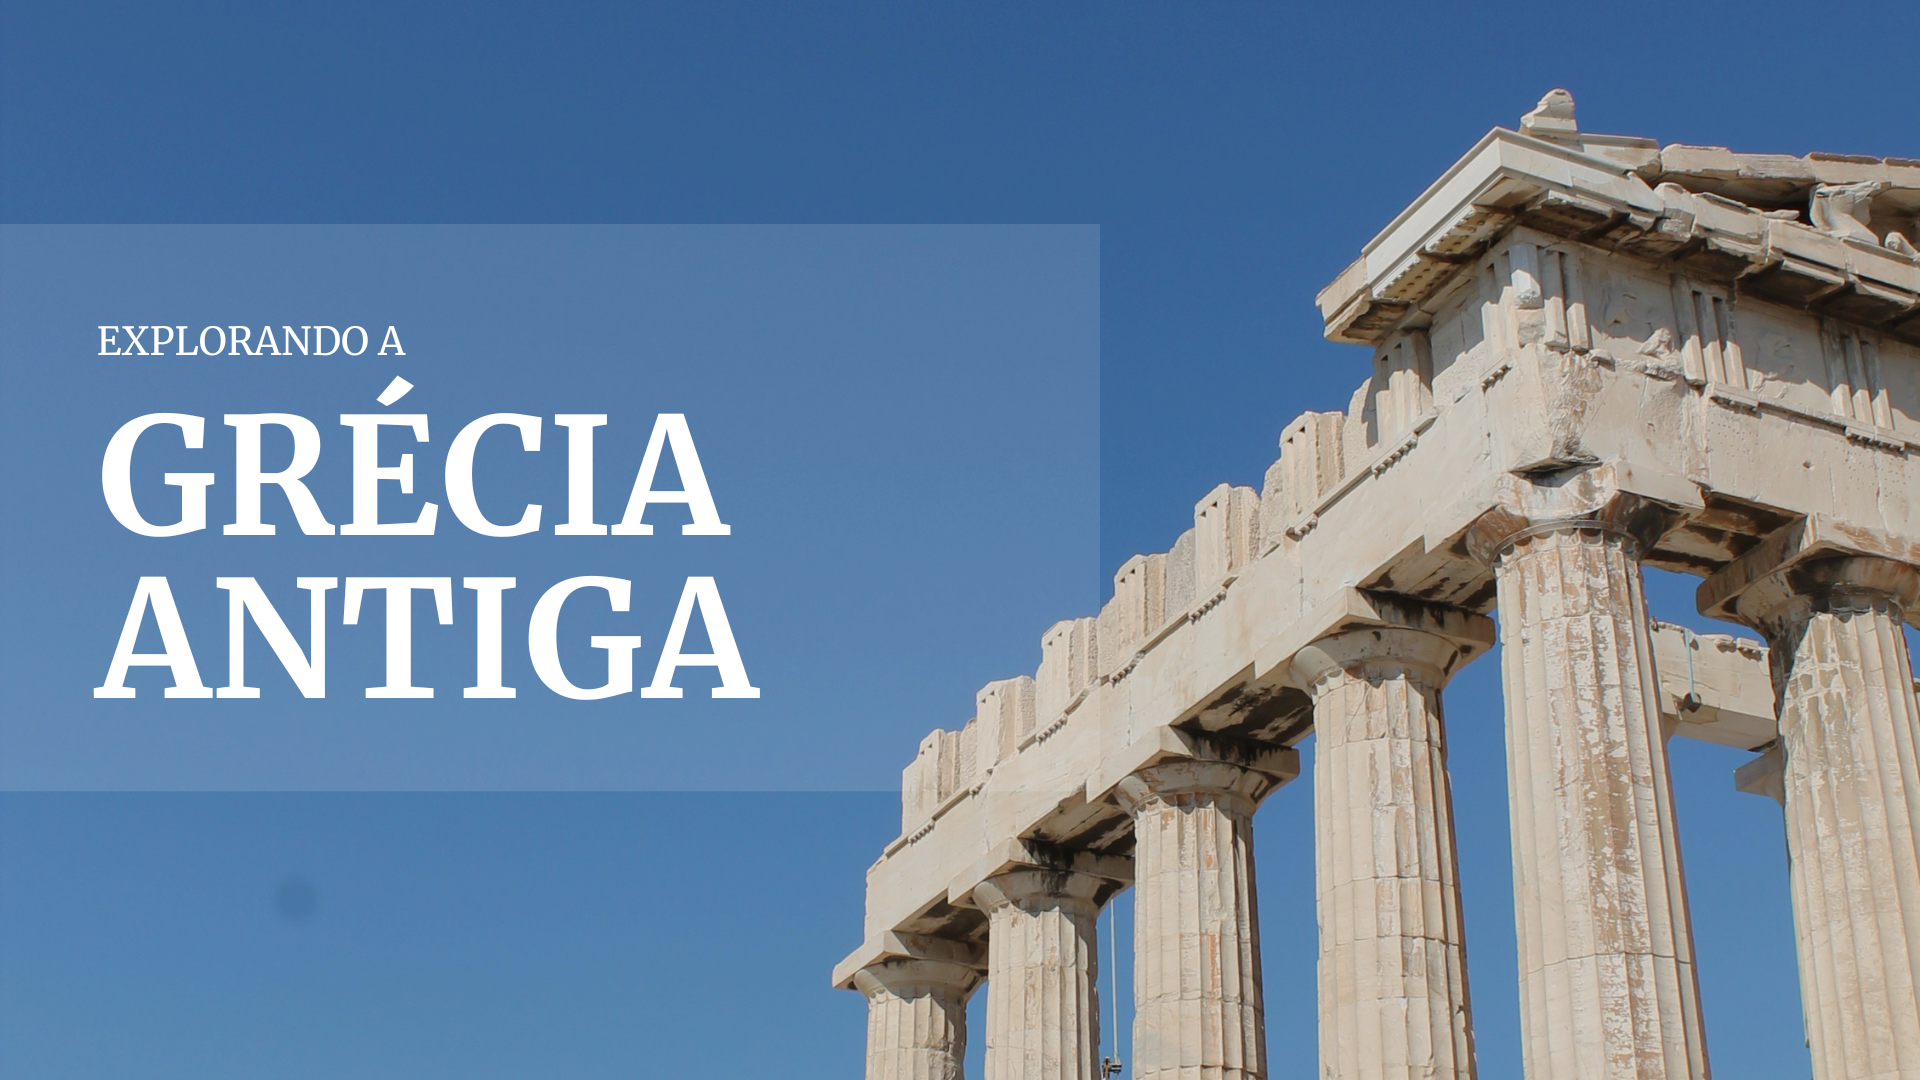
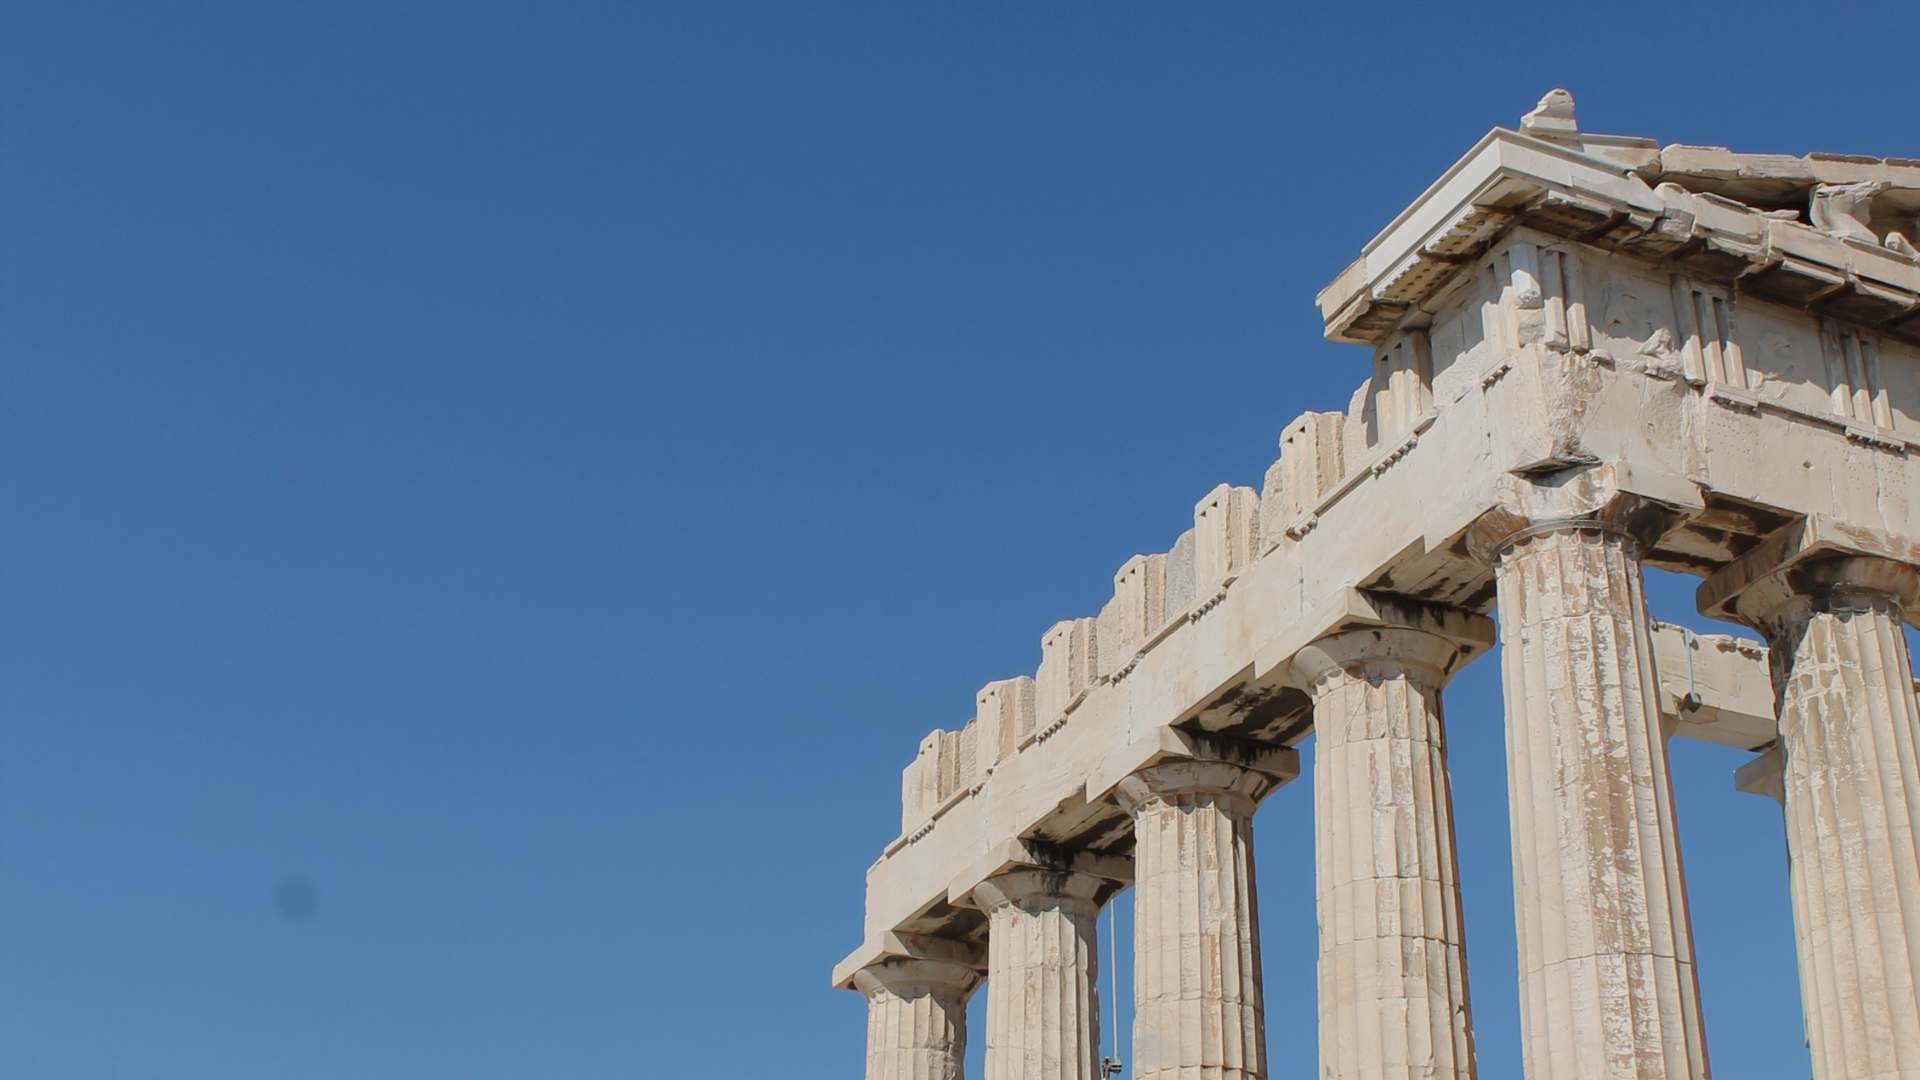
NewNav

Changed region(s): [[0.0312, 0.3056, 0.4062, 0.6722]]

diff --git a/index.html b/index.html
@@ -30,104 +30,55 @@
     <nav>
       <h1>Olimpo Digital</h1>
       <ul>
-        <li><a href="#inicio">Início</a></li>
-        <li><a href="#deuses">Principais Deuses</a></li>
+        <li><a href="#deuses">Deuses</a></li>
         <li><a href="#herois">Heróis e Aventuras</a></li>
-        <li><a href="#footer1">Sobre Nós e Nossas Redes</a></li>
+        <li><a href="#footer-bottom">Nós e Nossas Redes</a></li>
       </ul>
       <i class="fa-solid fa-bars" style="color: aliceblue"></i>
     </nav>
 
     <main>
+      <div class="img1-container">
       <img class="img1" src="./img/img1.png" alt="Templo Grego" />
-      <section id="inicio">
-        <div class="welcome">
-          <h1>Seja Bem-Vindo!</h1>
-          <p>
-            &emsp; Aqui, você embarcará em uma jornada pelas histórias épicas,
-            deuses poderosos e heróis lendários que moldaram a cultura e o
-            imaginário da Grécia Antiga. A mitologia grega é um tesouro de
-            narrativas ricas que explicam a criação do mundo, exploram as forças
-            da natureza e revelam as paixões e desafios humanos.
-          </p>
+      <div class="welcome-text">
+        <h1>Seja Bem-Vindo!</h1>
+        <p>
+          Aqui, você embarcará em uma jornada pelas histórias épicas,
+          deuses poderosos e heróis lendários que moldaram a cultura e o
+          imaginário da Grécia Antiga. A mitologia grega é um tesouro de
+          narrativas ricas que explicam a criação do mundo, exploram as forças
+          da natureza e revelam as paixões e desafios humanos.
+        </p>
         </div>
-        <div>
-          <iframe
-            src="https://www.google.com/maps/embed?pb=!1m18!1m12!1m3!1d3214333.824319932!2d21.684874082276256!3d38.116983834912745!2m3!1f0!2f0!3f0!3m2!1i1024!2i768!4f13.1!3m3!1m2!1s0x135b4ac711716c63%3A0x363a1775dc9a2d1d!2zR3LDqWNpYQ!5e0!3m2!1spt-BR!2sbr!4v1738963786412!5m2!1spt-BR!2sbr"
-            width="600"
-            height="400"
-            style="border: 0"
-            allowfullscreen=""
-            loading="lazy"
-            referrerpolicy="no-referrer-when-downgrade"
-          ></iframe>
         </div>
       </section>
 
       <section class="sobre">
-        <div class="sobre-container">
-          <div class="coluna-esquerda">
+          <div class="coluna">
             <h1>O que é a Mitologia Grega?</h1>
             <p>
-              &emsp;&emsp;Mitologia grega é o estudo dos conjuntos de narrativas
-              relacionadas com os mitos dos gregos antigos e dos seus
-              significados. Para muitos estudiosos modernos, entender os mitos
-              gregos é o mesmo que lançar luz sobre a compreensão da sociedade
-              grega antiga e seu comportamento, bem como suas práticas
-              ritualísticas. Os mitos gregos ilustram as origens do mundo, os
-              modos de vida, as aventuras e desventuras de uma ampla variedade
-              de deuses, deusas, heróis, heroínas (deidades) e de outras
-              criaturas mitológicas.
+              &emsp;&emsp;A mitologia grega é o estudo das narrativas e
+              significados dos mitos dos gregos antigos, fornecendo insights
+              sobre sua sociedade, comportamento e práticas rituais. Esses
+              mitos explicam as origens do mundo e relatam as aventuras 
+              de deuses, heróis e criaturas mitológicas, sendo preservados
+              em obras literárias como a Ilíada e a Odisseia, de Homero, e a 
+              Teogonia, de Hesíodo. Inicialmente transmitidos oralmente, os 
+              mitos gregos foram registrados na literatura e representados 
+              em artes como a cerâmica e a pintura. Com o avanço da arqueologia,
+              evidências como vasos decorados e artefatos do século VIII a.C. 
+              reforçam o estudo dessas narrativas.
             </p>
             <p>
-              &emsp;&emsp;Ao longo dos tempos, esses mitos foram expressos
-              através de uma extensa coleção de narrativas, que constituem a
-              literatura grega, e também na representação de outras artes, como
-              a pintura da Grécia Antiga e a cerâmica de figuras vermelhas.
-              Inicialmente divulgados em tradição oral-poética, atualmente esses
-              mitos são tratados apenas como parte da literatura grega. Tal
-              literatura abrange as mais conhecidas fontes literárias da Grécia
-              Antiga: os poemas épicos Ilíada e Odisseia (ambos atribuídos a
-              Homero e que tratam dos acontecimentos em torno da Guerra de
-              Troia, destacando a influência de deuses e de outros seres), e
-              também a Teogonia e Os Trabalhos e os Dias, ambos produzidos por
-              Hesíodo.
+              &emsp;&emsp;A mitologia grega teve grande influência na cultura
+              ocidental, inspirando poetas, artistas e escritores ao longo dos
+              séculos. Sua herança se estende à ciência, com nomes mitológicos
+              em planetas e conceitos acadêmicos, além de influenciar tradições
+              neopagãs como a Wicca e o dodecateísmo, que buscam resgatar crenças
+              antigas. Esses mitos continuam a ser uma referência cultural,
+              mantendo sua relevância e impacto até os dias de hoje.
             </p>
           </div>
-          <div class="coluna-direita">
-            <p>
-              &emsp;&emsp;Os mitos também estão preservados nos hinos homéricos,
-              em fragmentos de poemas do Ciclo Épico, na poesia lírica, no
-              âmbito dos trabalhos das tragédias do século V a.C., nos escritos
-              de poetas e eruditos do período helenístico e em outros documentos
-              de poetas do Império Romano, como Plutarco e Pausânias. Com o
-              avanço da pesquisa científica no final do século XIX e durante o
-              século XX, a principal fonte de detalhes sobre a mitologia grega
-              são as evidências arqueológicas, que descobrem e descobriram
-              decorações e outros artefatos, como desenhos geométricos em
-              cerâmica, datados do século VIII a.C., que retratam cenas do ciclo
-              troiano e das aventuras de Hércules. Sucedendo os períodos
-              Arcaico, Clássico e Helenístico, Homero e várias outras
-              personalidades aparecem para completar as provas dessas
-              existências literárias.
-            </p>
-            <p>
-              &emsp;&emsp;A mitologia grega tem exercido uma grande influência
-              na cultura, nas artes e na literatura da civilização ocidental e
-              permanece como parte da herança e da linguagem do Ocidente. Poetas
-              e artistas desde os tempos antigos até o presente têm se inspirado
-              na mitologia grega e descoberto que os temas mitológicos lhes
-              legam significado e relevância em seu contemporâneo. Seu
-              patrimônio também influi na ciência, como no caso dos nomes dados
-              aos planetas do Sistema Solar e em estudos teóricos, acadêmicos,
-              psicanalíticos, antropológicos e muitos outros, além de nos dias
-              de hoje tradições neopagãs como a Wicca serem influenciadas por
-              ela, e outras como o dianismo, a Stregheria e principalmente o
-              dodecateísmo (ou neopaganismo helênico) tenham tentado resgatar
-              suas crenças.
-            </p>
-          </div>
-        </div>
         <iframe
           width="560"
           height="315"
@@ -307,9 +258,9 @@
           </ul>
         </div>
       </section>
-      <section class="footer-bottom">
+      <section id="footer-bottom" class="footer-bottom">
         <p>
-          Copyright © 2025 Rede OLimpo Digital - Todos os direitos reservados.
+          Copyright©2025 Rede OLimpo Digital - Todos os direitos reservados.
           Proibida a reprodução total ou parcial sem prévia autorização
           <a href=""
             >(<span class="lei">Inciso I do Artigo 29 Lei 9.610/98</span>)</a

diff --git a/style.css b/style.css
@@ -19,42 +19,13 @@ body {
   font-weight: 700; /* Bold */
 }
 
-/* Cinzel Font Classes */
-.cinzel-regular {
-  font-family: "Cinzel", serif;
-  font-weight: 400;
-  font-style: normal;
-}
-
-.cinzel-bold {
-  font-family: "Cinzel", serif;
-  font-weight: 700;
-  font-style: normal;
-}
-
-.cinzel-black {
-  font-family: "Cinzel", serif;
-  font-weight: 900;
-  font-style: normal;
-}
-
-/* Josefin Sans Font Classes */
-.josefin-regular {
-  font-family: "Josefin Sans", sans-serif;
-  font-weight: 400;
-  font-style: normal;
-  font-size: 18px; /* Aumenta o tamanho da fonte regular */
-}
-
 /* NAV BAR */
 nav {
   display: flex;
   justify-content: space-between;
   align-items: center;
   box-sizing: border-box;
-  background-color: #000000;
-  padding: 5px;
-  position: fixed;
+  background-color: #000;
   top: 0;
   width: 100%;
   z-index: 1000;
@@ -83,8 +54,7 @@ nav ul li a {
   display: inline-block;
   padding: 10px 20px;
   margin: 5px;
-  background-color: #fff;
-  color: #000;
+  color: #ffffff !important;
   text-decoration: none;
   border: 2px solid #fff;
   border-radius: 5px;
@@ -94,8 +64,8 @@ nav ul li a {
 }
 
 nav ul li a:hover {
-  background-color: #666;
-  color: #fff;
+  background-color: #fff;
+  color: #000 !important;
 }
 
 nav .fa-solid {
@@ -103,40 +73,29 @@ nav .fa-solid {
 }
 
 /* IMAGEM ABAIXO DO NAV */
+.img1-container {
+  position: relative;
+  width: 100%;
+}
+
 .img1 {
   width: 100%;
   object-fit: cover;
+  height: 93vh;
+  filter: brightness(50%);
 }
 
-/* SEÇÃO INICIO */
-#inicio {
-  background-color: #ebebeb;
-  display: flex;
-  justify-content: center;
-  align-items: center;
-  gap: 80px;
-  margin: 0;
-}
-
-.welcome {
-  max-width: 600px;
-  margin: 20px;
-  text-align: center;
-}
-
-.welcome h1 {
-  margin-bottom: 20px;
+.img1-container .welcome-text {
+  position: absolute;
+  top: 1%;
+  margin: 30%;
+  transform: translate(-50%, -50%);
+  color: #fff;
   font-family: "Cinzel", serif;
   font-weight: 700; /* Bold */
-}
-
-.welcome p {
-  text-align: justify;
-  margin: 20px;
-  line-height: 1.8;
-  font-size: 18px; /* Aumenta o tamanho da fonte regular */
-  font-family: "Josefin Sans", sans-serif;
-  font-weight: 400; /* Regular */
+  font-size: 2em;
+  text-align: left;
+  z-index: 1;
 }
 
 /* SEÇÃO SOBRE */
@@ -168,39 +127,26 @@ nav .fa-solid {
   padding: 0 10px;
 }
 
-.coluna-esquerda,
-.coluna-direita {
-  flex: 1;
-  width: 100%;
-  padding: 0 15px;
-}
-
-.coluna-esquerda p,
-.coluna-direita p {
+.coluna{
   text-align: justify;
   margin: 20px 0;
   line-height: 1.8;
-  font-size: 18px; /* Aumenta o tamanho da fonte regular */
+  font-size: 18px;
   font-family: "Josefin Sans", sans-serif;
   font-weight: 400; /* Regular */
 }
 
-.sobre div {
-  max-width: none;
-  margin: 0 auto;
-}
-
-.sobre p {
-  text-align: justify;
-  margin: 20px;
-}
-
 .sobre iframe {
-  width: 100%;
+  width: 1500px;
   max-width: 700px;
   height: 400px;
   margin: 20px 0;
   border: 2px solid #000;
+  border-radius: 10px;
+  box-shadow: 0 4px 8px rgba(0, 0, 0, 0.1);
+  display: block;
+  margin-left: auto;
+  margin-right: auto;
 }
 
 /* SECTION DEUSES / HEROIS */
@@ -421,7 +367,7 @@ footer {
   }
   .img1 {
     margin-top: 60px;
-    height: 400px;
+    height: 80vh;
   }
   .card-container {
     flex-direction: row;
@@ -429,7 +375,7 @@ footer {
   }
   .card-deus,
   .card-heroi {
-    width: calc(50% - 30px); /* Ajusta a largura dos cards */
+    width: calc(50% - 30px);
     margin-bottom: 20px;
   }
 }
@@ -472,7 +418,7 @@ footer {
   }
   .img1 {
     margin-top: 30px;
-    height: 70vh;
+    height: 100vh;
     width: 100%;
     object-fit: cover;
     object-position: center;

diff --git a/fontes.css b/fontes.css
@@ -1,0 +1,26 @@
+/* Cinzel Font Classes */
+.cinzel-regular {
+    font-family: "Cinzel", serif;
+    font-weight: 400;
+    font-style: normal;
+  }
+  
+  .cinzel-bold {
+    font-family: "Cinzel", serif;
+    font-weight: 700;
+    font-style: normal;
+  }
+  
+  .cinzel-black {
+    font-family: "Cinzel", serif;
+    font-weight: 900;
+    font-style: normal;
+  }
+  
+  /* Josefin Sans Font Classes */
+  .josefin-regular {
+    font-family: "Josefin Sans", sans-serif;
+    font-weight: 400;
+    font-style: normal;
+    font-size: 18px; /* Aumenta o tamanho da fonte regular */
+  }
